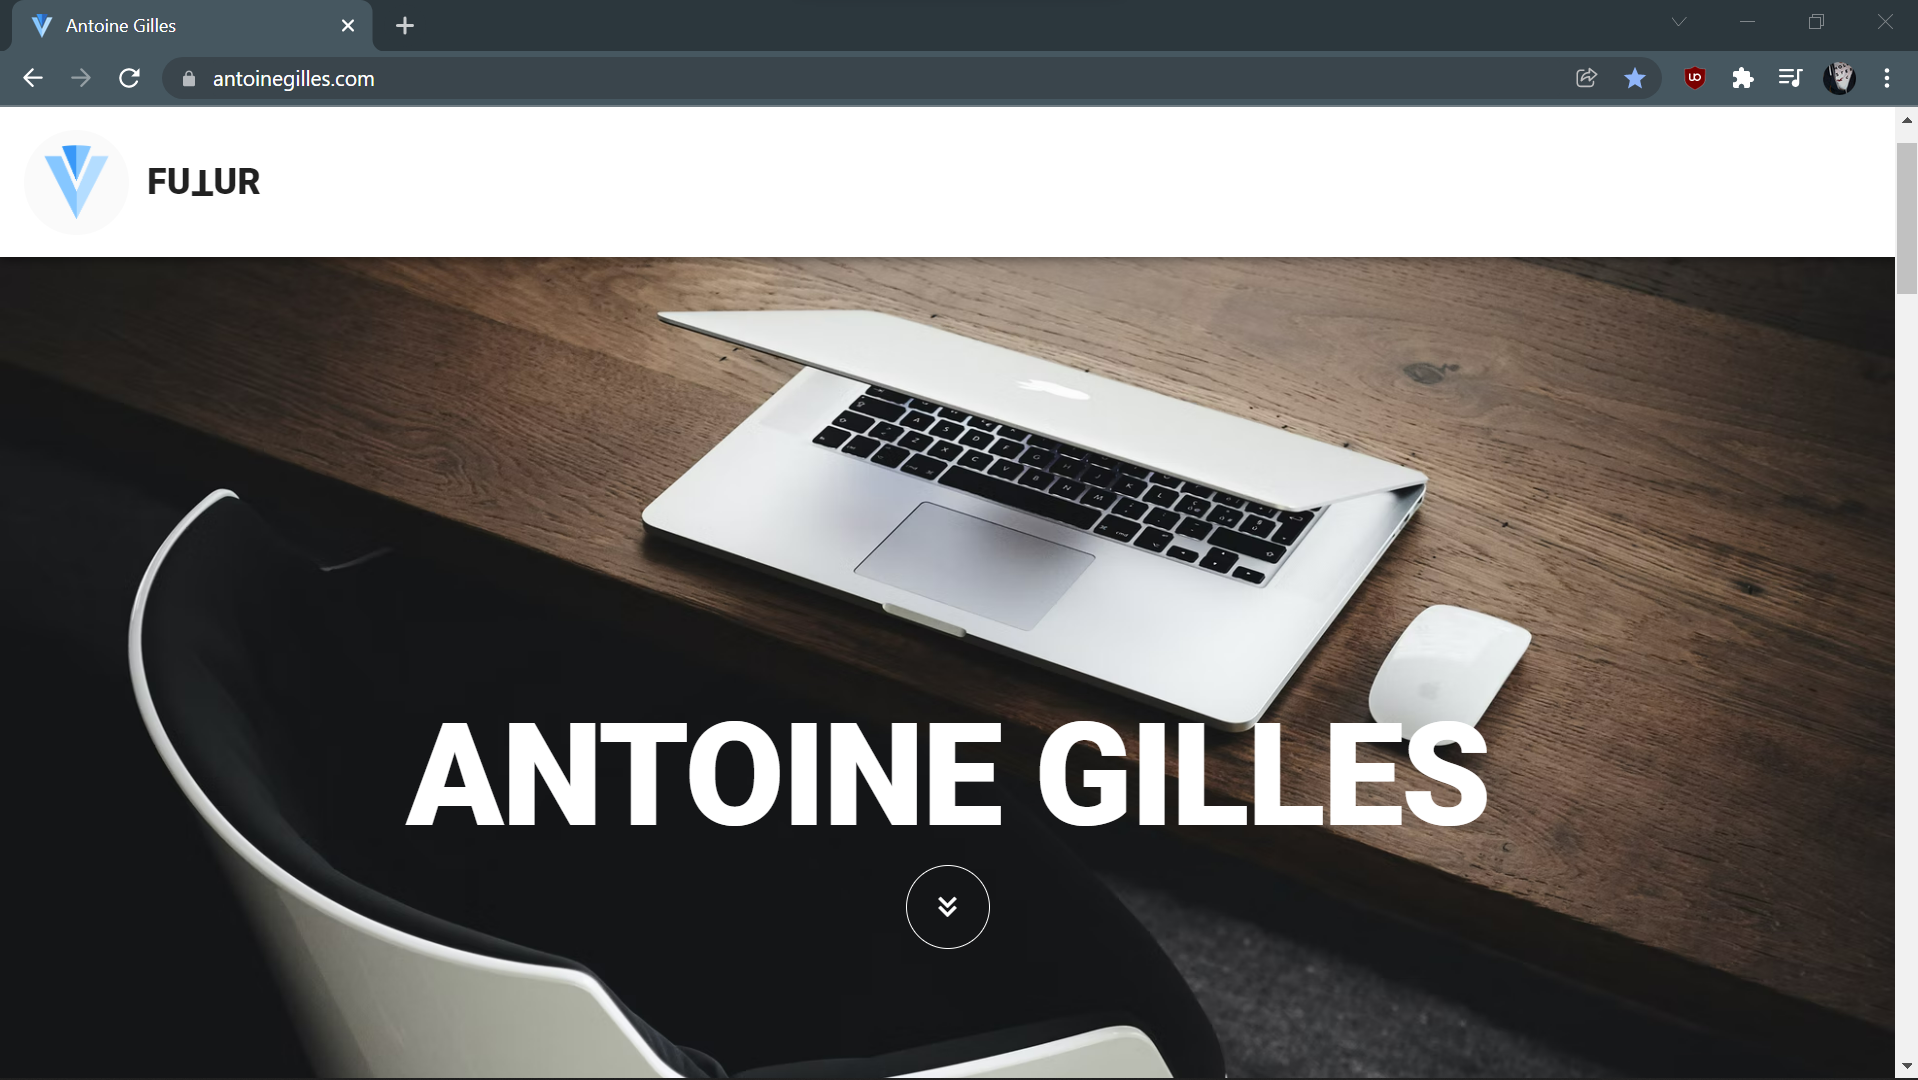
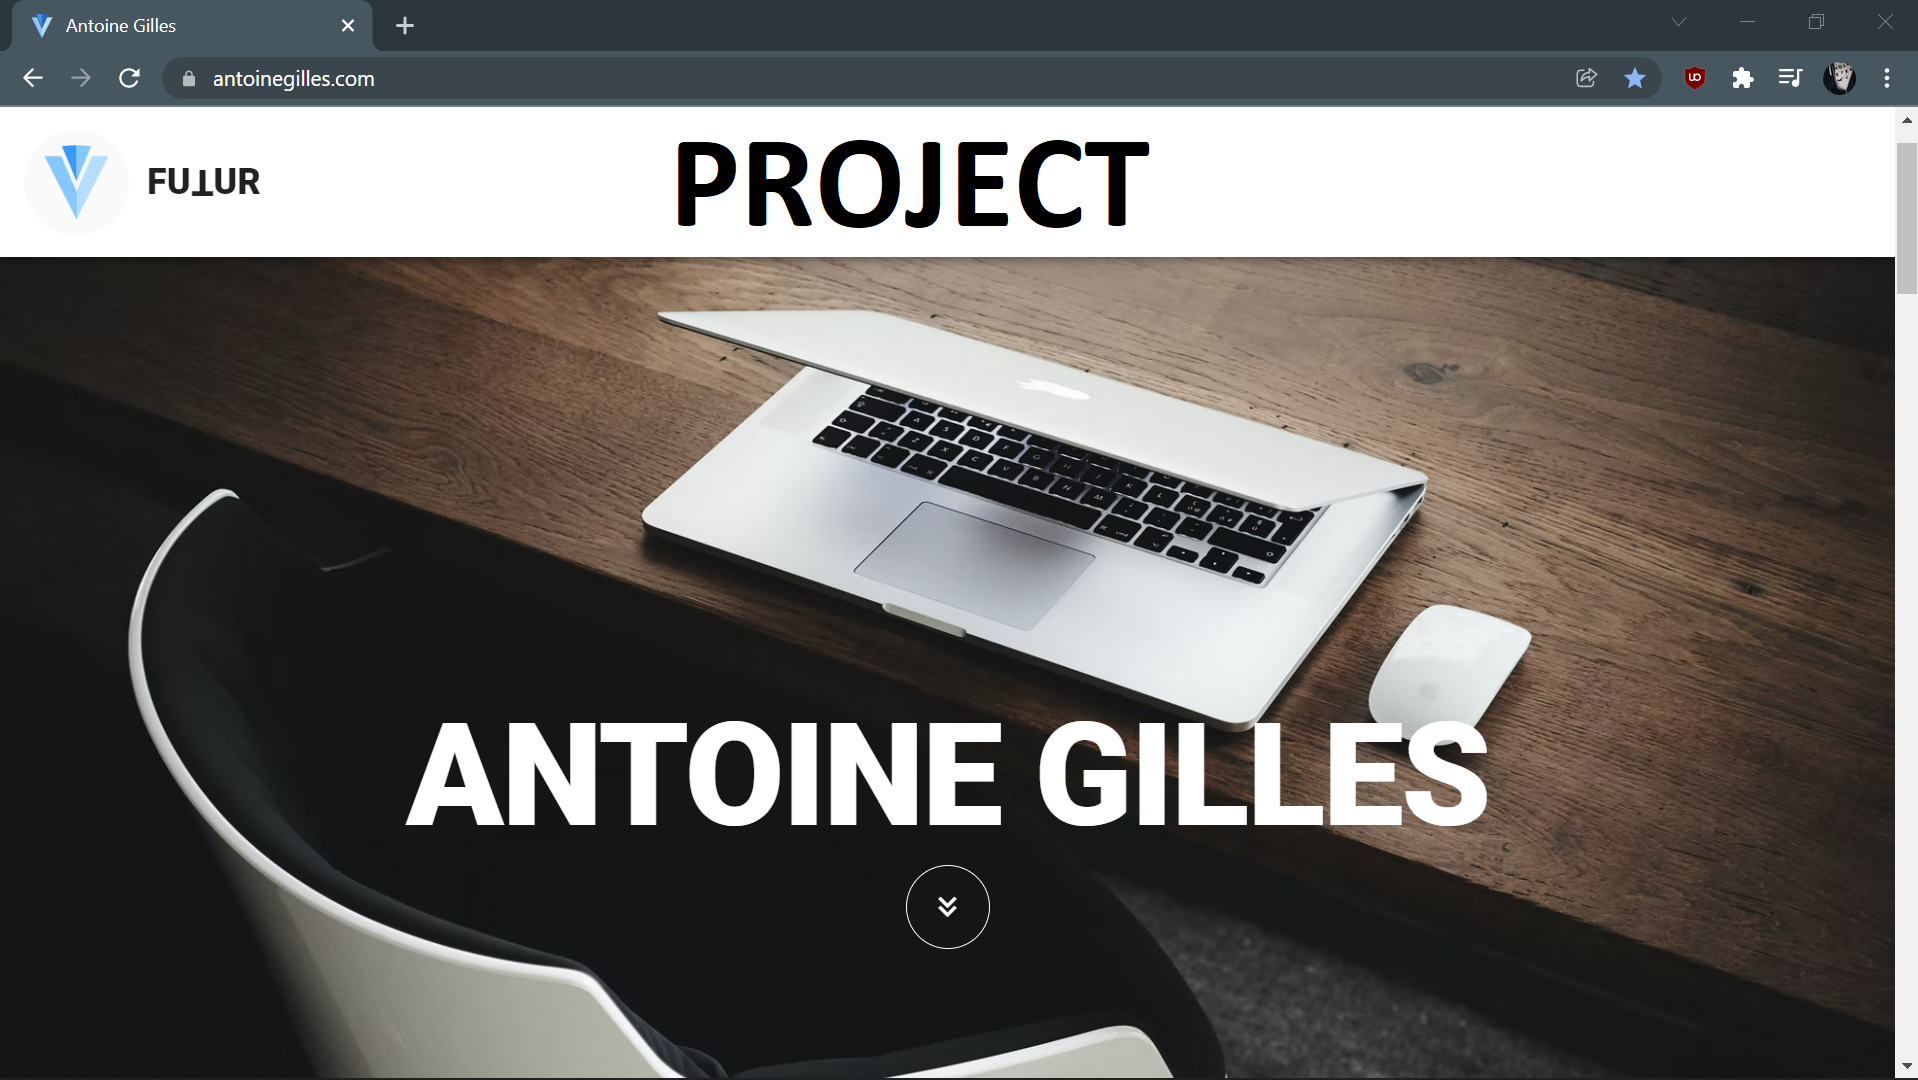
revue responsive du pc 3D

Changed region(s): [[0.3384, 0.1222, 0.6152, 0.2139]]

diff --git a/src/index.html b/src/index.html
@@ -92,18 +92,11 @@
         </section>
 
         <section id="features" class="grey lighten-3">
-          <div class="py-12"></div>
+          <div class="py-3"></div>
 
           <v-container class="text-center">
-            <h2 class="display-2 font-weight-bold mb-3">Project</h2>
 
             <canvas class="webgl"></canvas>
-
-            <v-responsive class="mx-auto mb-12" width="56">
-              <v-divider class="mb-1"></v-divider>
-
-              <v-divider></v-divider>
-            </v-responsive>
 
             <v-row>
               <v-col v-for="({ icon, title, text }, i) in features" :key="i" cols="12" md="4">
@@ -257,10 +250,5 @@
 <style>
   .rotateT {
     transform: rotate(180deg) !important;
-  }
-
-  .webgl {
-    height: 3em;
-    width: 3em;
   }
 </style>

diff --git a/src/script.js b/src/script.js
@@ -62,7 +62,6 @@ function screen() {
         object.children[0].material.color.r = 0
         object.children[0].material.color.g = 0
         object.children[0].material.color.b = 0
-        console.log(object)
 
         screen.add(object)
     })
@@ -294,7 +293,7 @@ const sizes = {
  * Camera
  */
 // Base camera
-const camera = new THREE.PerspectiveCamera(5, window.innerWidth / window.innerHeight, 1, 1000)
+const camera = new THREE.PerspectiveCamera(4, window.innerWidth / window.innerHeight, 2, 2000)
 camera.position.x = 0
 camera.position.y = -2
 camera.position.z = 100

diff --git a/src/style.css b/src/style.css
@@ -1,4 +1,17 @@
 .webgl{
-    height: 30em !important;
-    width: 40em !important;
+    height: 37em !important;
+    width: 54em !important;
 }
+/* On screens that are 600px or less, set the background color to olive */
+@media (max-width: 915px) {
+    .webgl{
+        height: 20em !important;
+        width: 10em !important;
+    }
+  }
+@media (max-width: 400px) {
+    .webgl{
+        height: 2em !important;
+        width: 1em !important;
+    }
+  }
